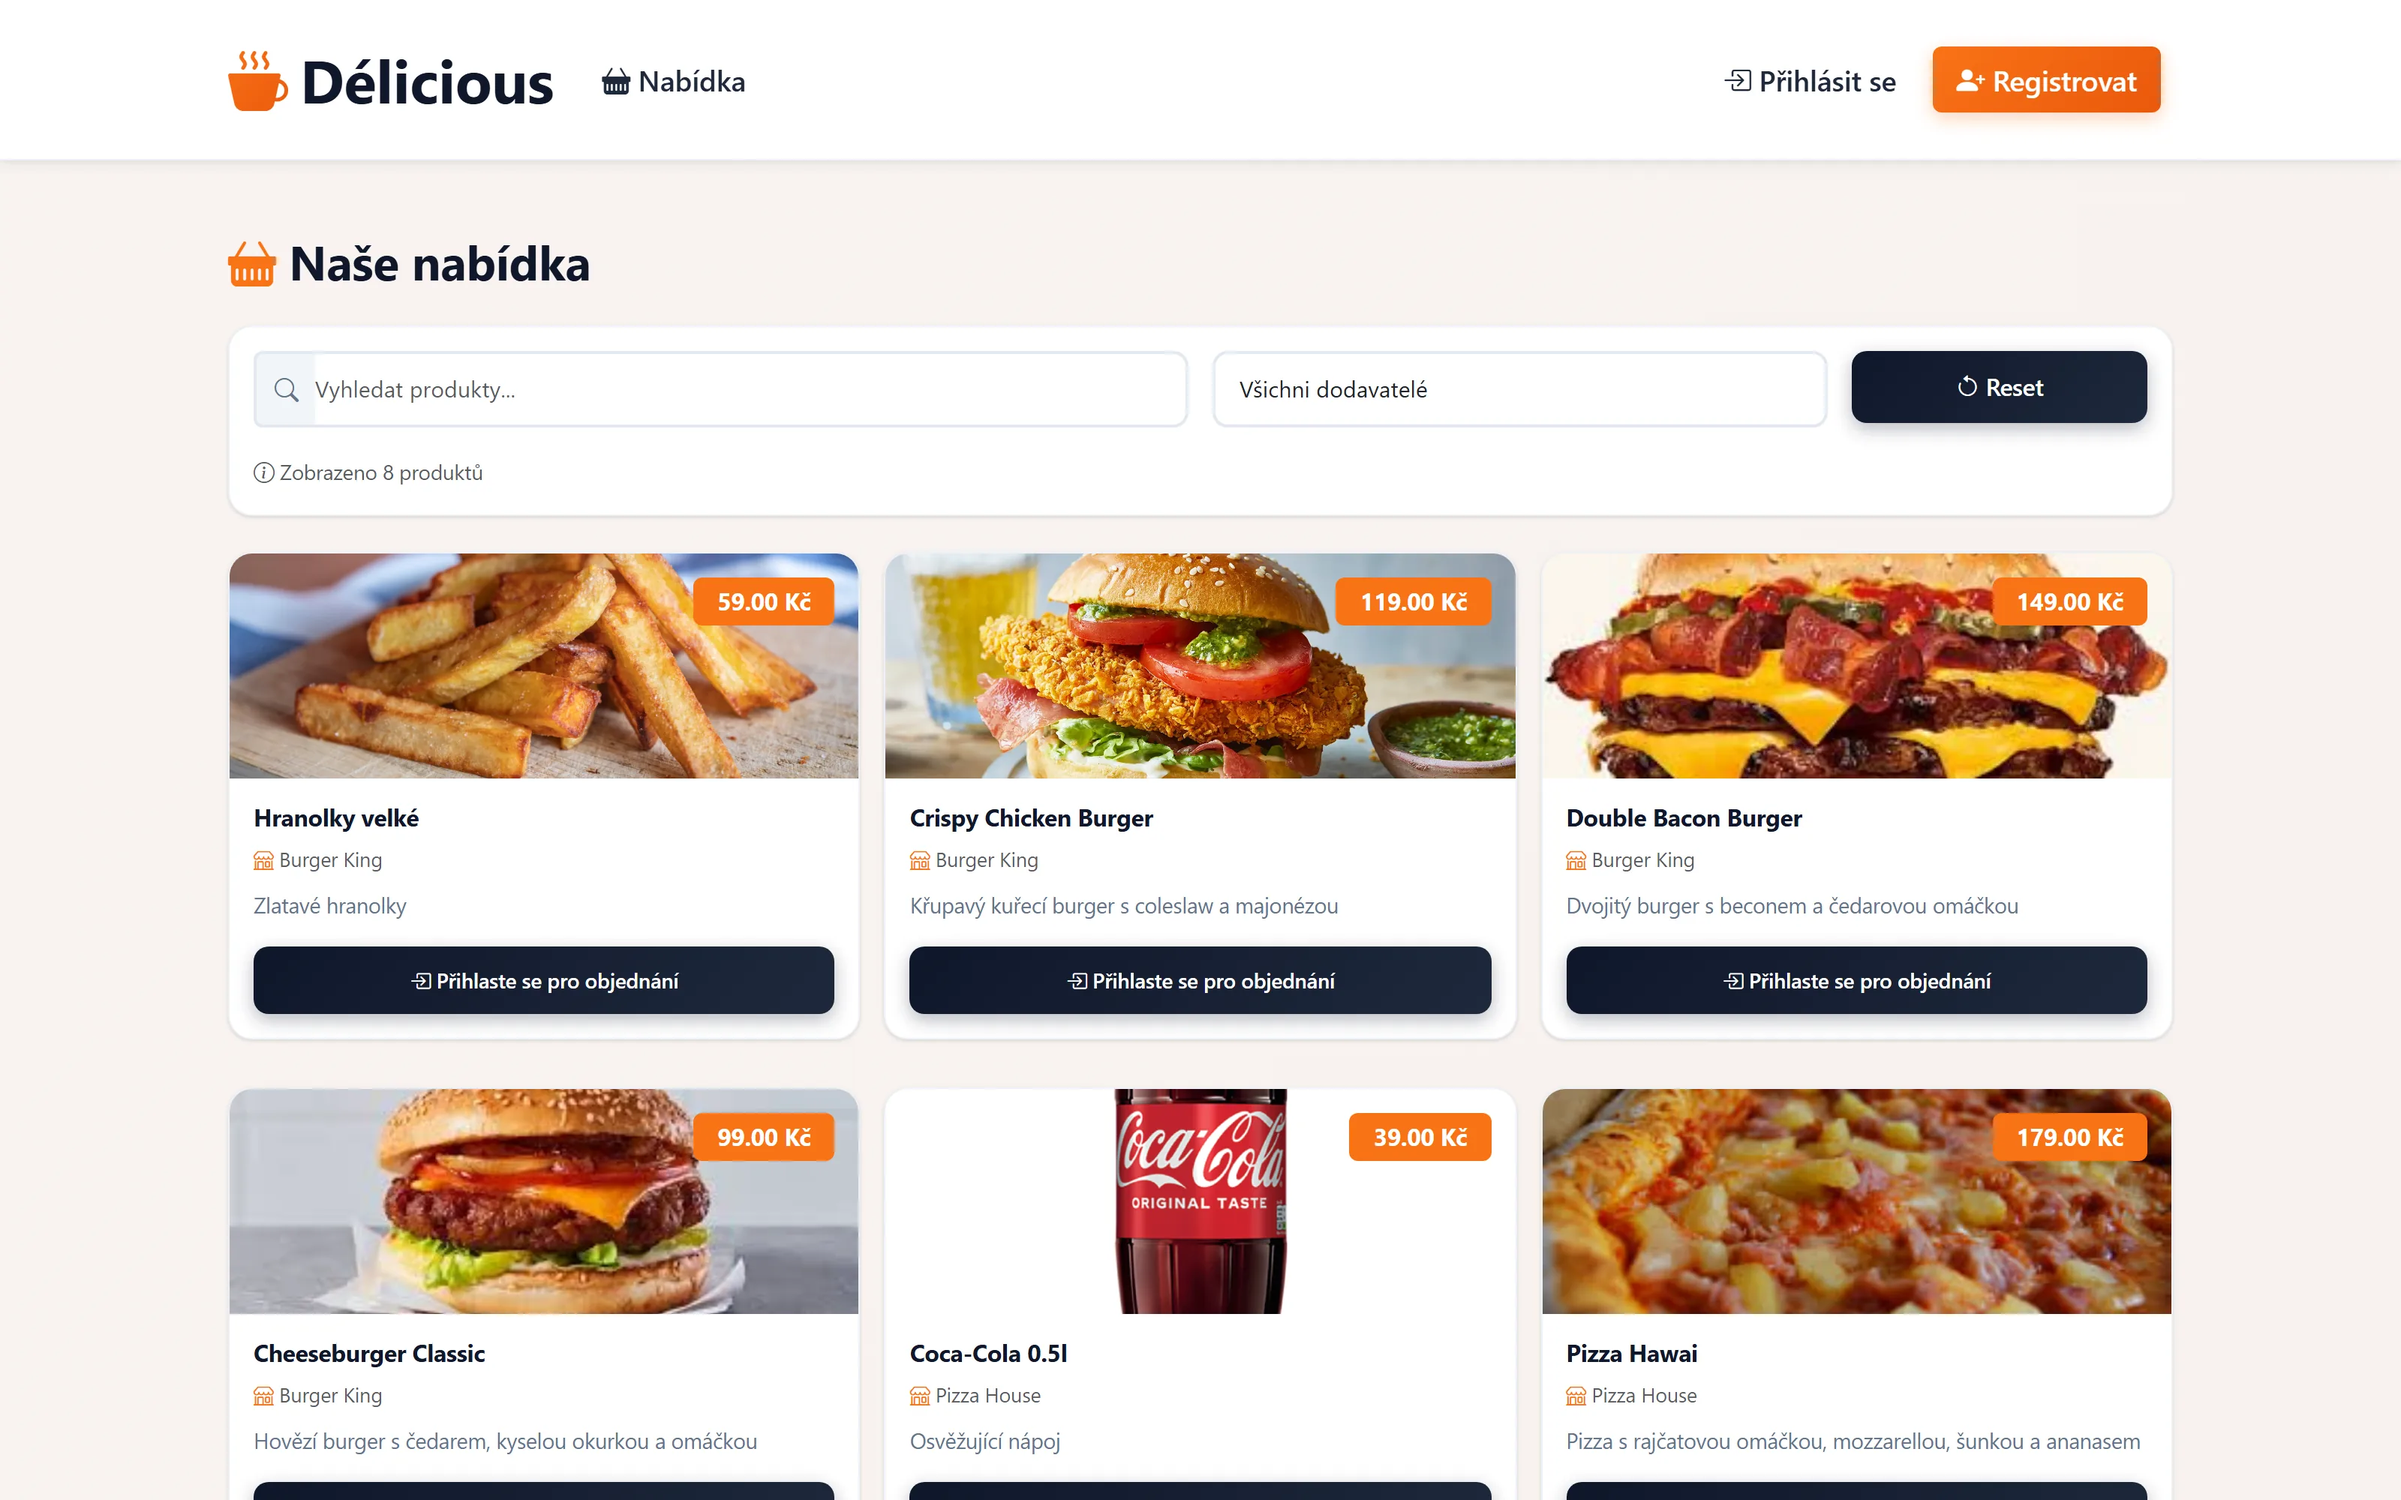
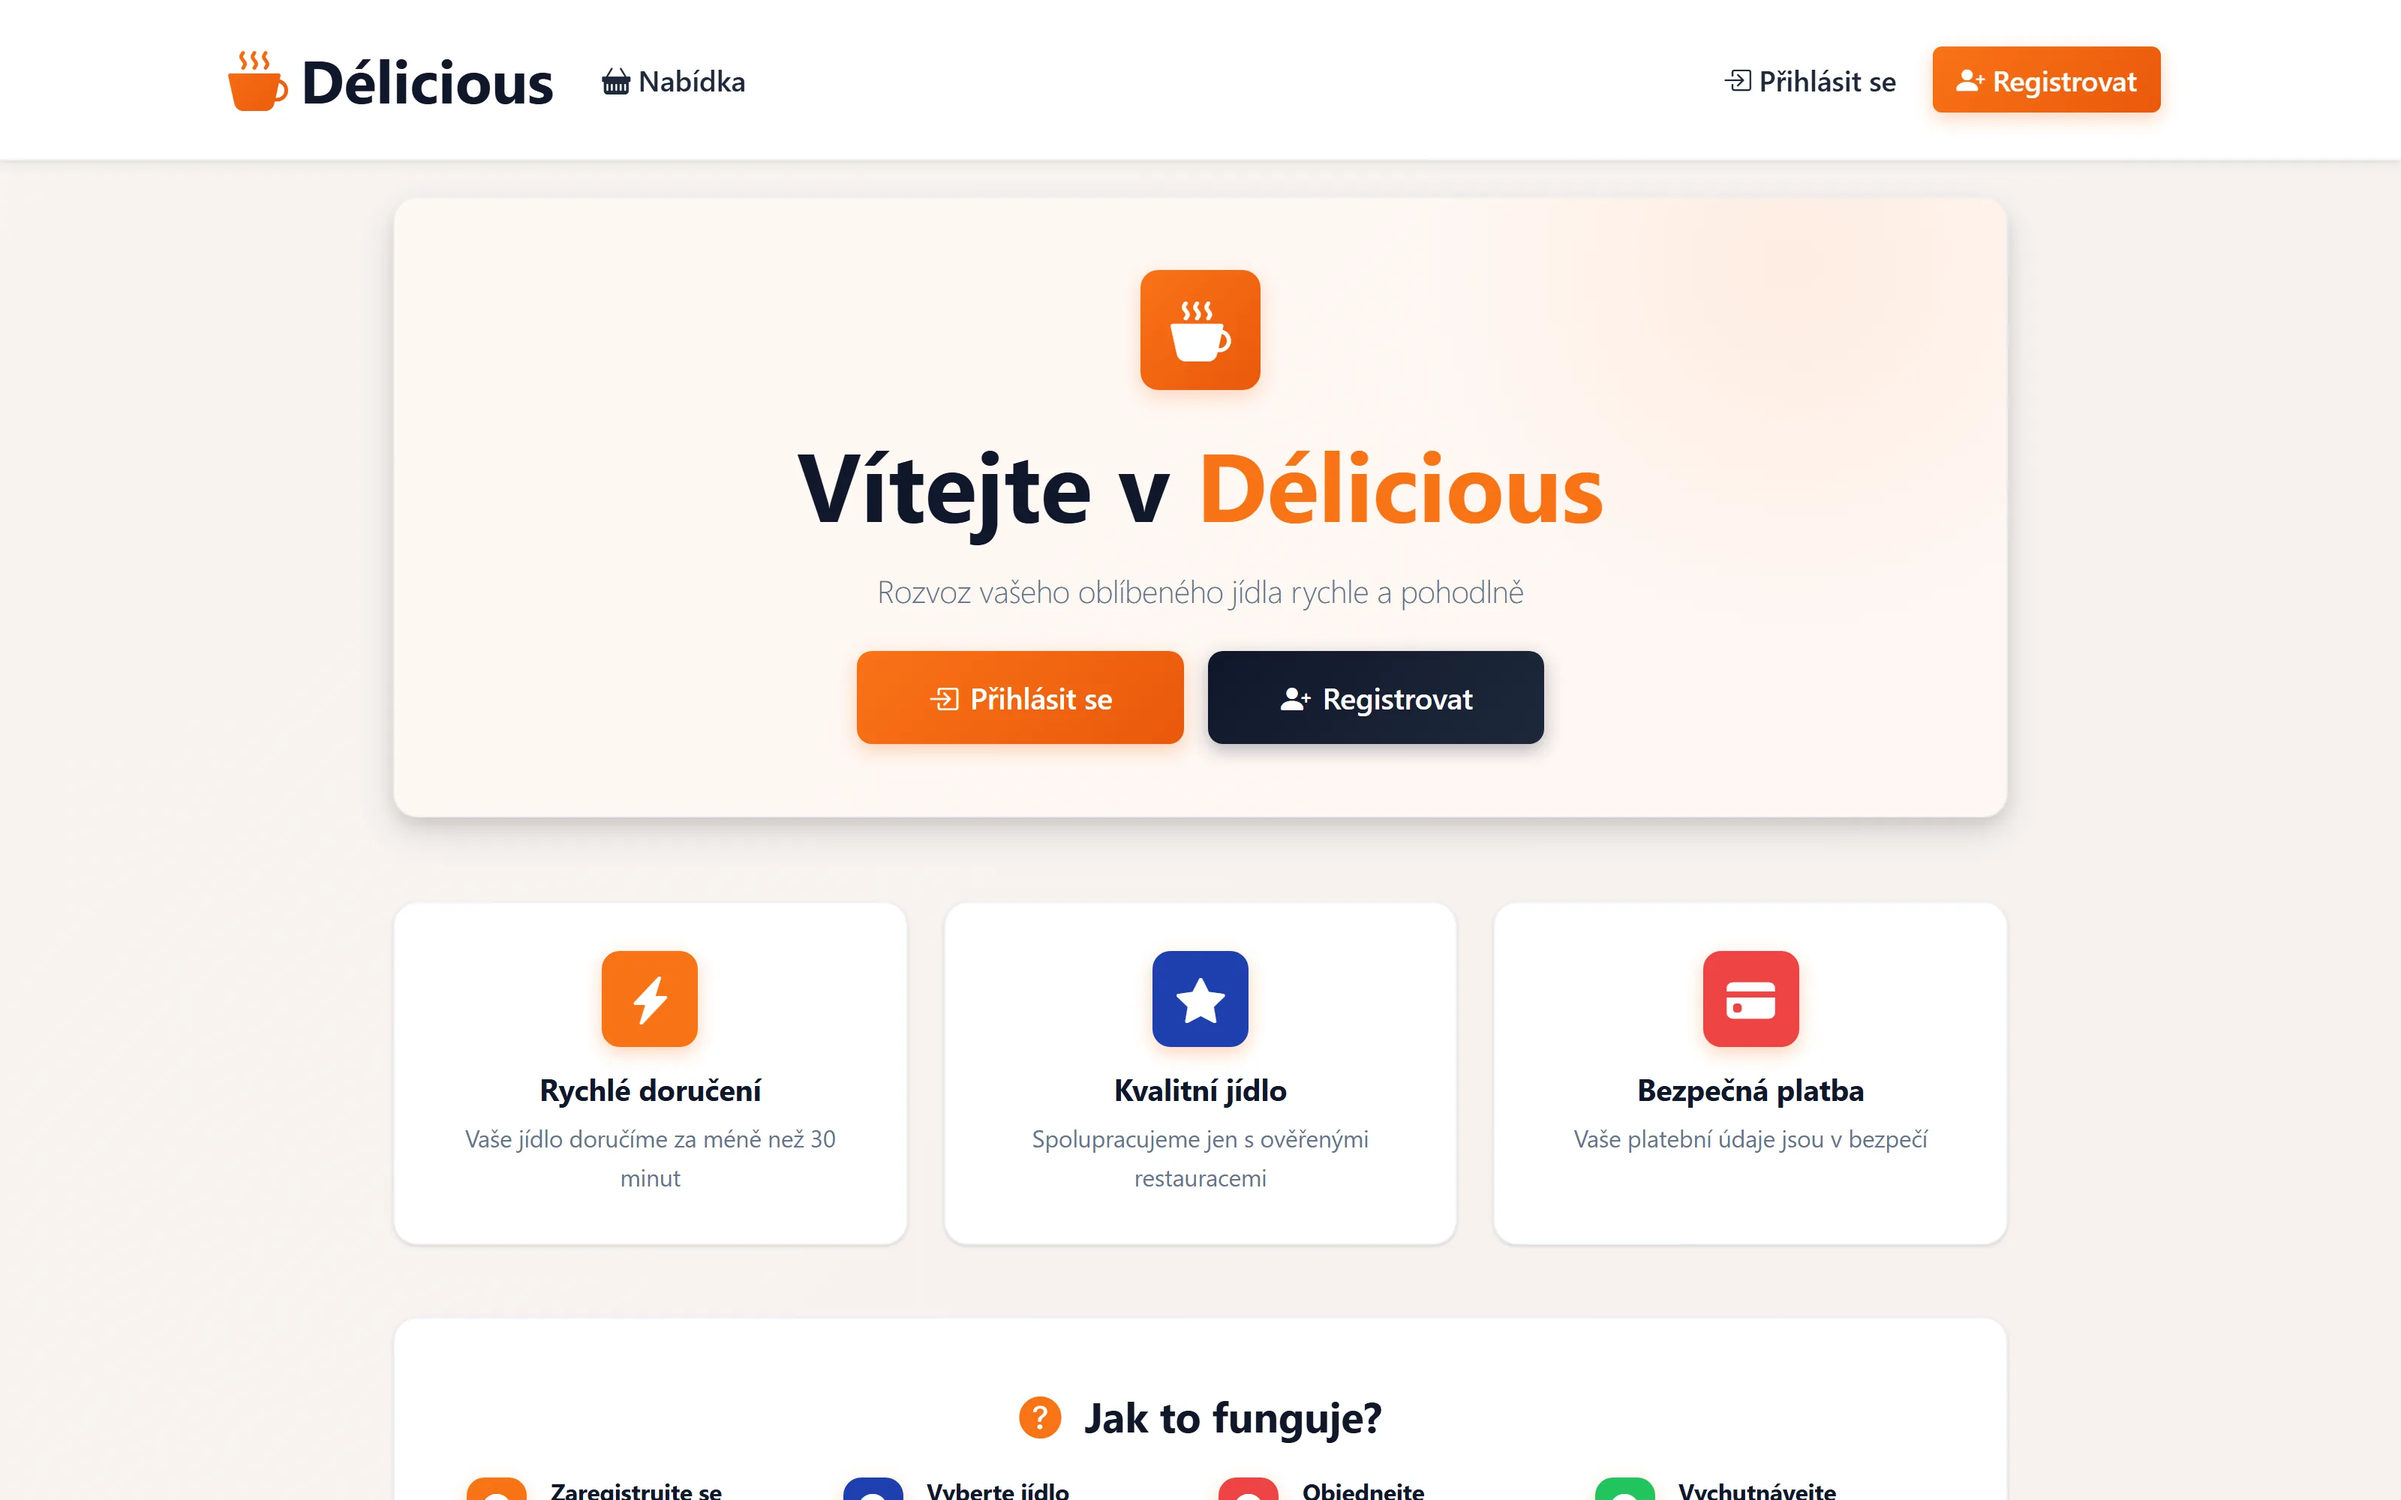
feat: show the title pages of the portal, FoodApp and the kiosk on their covers

Changed region(s): [[0.0938, 0.155, 0.9062, 1.0], [0.0938, 0.155, 0.25, 0.217]]

diff --git a/CLAUDE.md b/CLAUDE.md
@@ -102,10 +102,10 @@ The full brief is in `docs/PROMPT.md`; effect decisions from the reference resea
   `public/projects/<id>.webp`; per-project steps before the shot live in `PREPARE` (scripts/screenshots.ts). This site
   is shot from the local build with reduced motion (the hero name stands still). Projects without a screenshot keep the
   typographic DOM cover (`ProjectCover`) – no SVG covers (decision in docs/REFERENCES.md).
-  Covers of projects without a demo are made by hand in the same format (3200 × 2000 WebP, quality 82): `portal-jk`
-  (its sign-in page – the home page shows children), `foodapp` (product list) from local runs, `bakalarka` from a chart
-  in its `output/`, `pexeso` (the real JavaFX GameView mid-game against the C server, snapshotted offscreen),
-  `kiosek` (its UX wireframe – the team repo is private); pictures that are not 16:10 are padded, never cropped.
+  Covers of projects without a demo are made by hand in the same format (3200 × 2000 WebP, quality 82) and show
+  the title page: `portal-jk` (home page hero), `foodapp` (home page) and `kiosek` (sign-in screen of its Vue frontend)
+  from local runs, `pexeso` (the real JavaFX GameView mid-game against the C server, snapshotted offscreen),
+  `bakalarka` (a chart from its `output/`); pictures that are not 16:10 are padded, never cropped.
 - Portrait: `public/photo.webp` (a trimmed cut-out with transparency, `links.photo`) in About and in the design CV.
   The source `photo.webp` in the repo root stays untracked, like `logo.jpg`. The plain CV has no photo.
 - Print pages `app/cv/print/[locale]/[variant]` (design | plain) have their own root layout (`<html lang>`, light theme,
